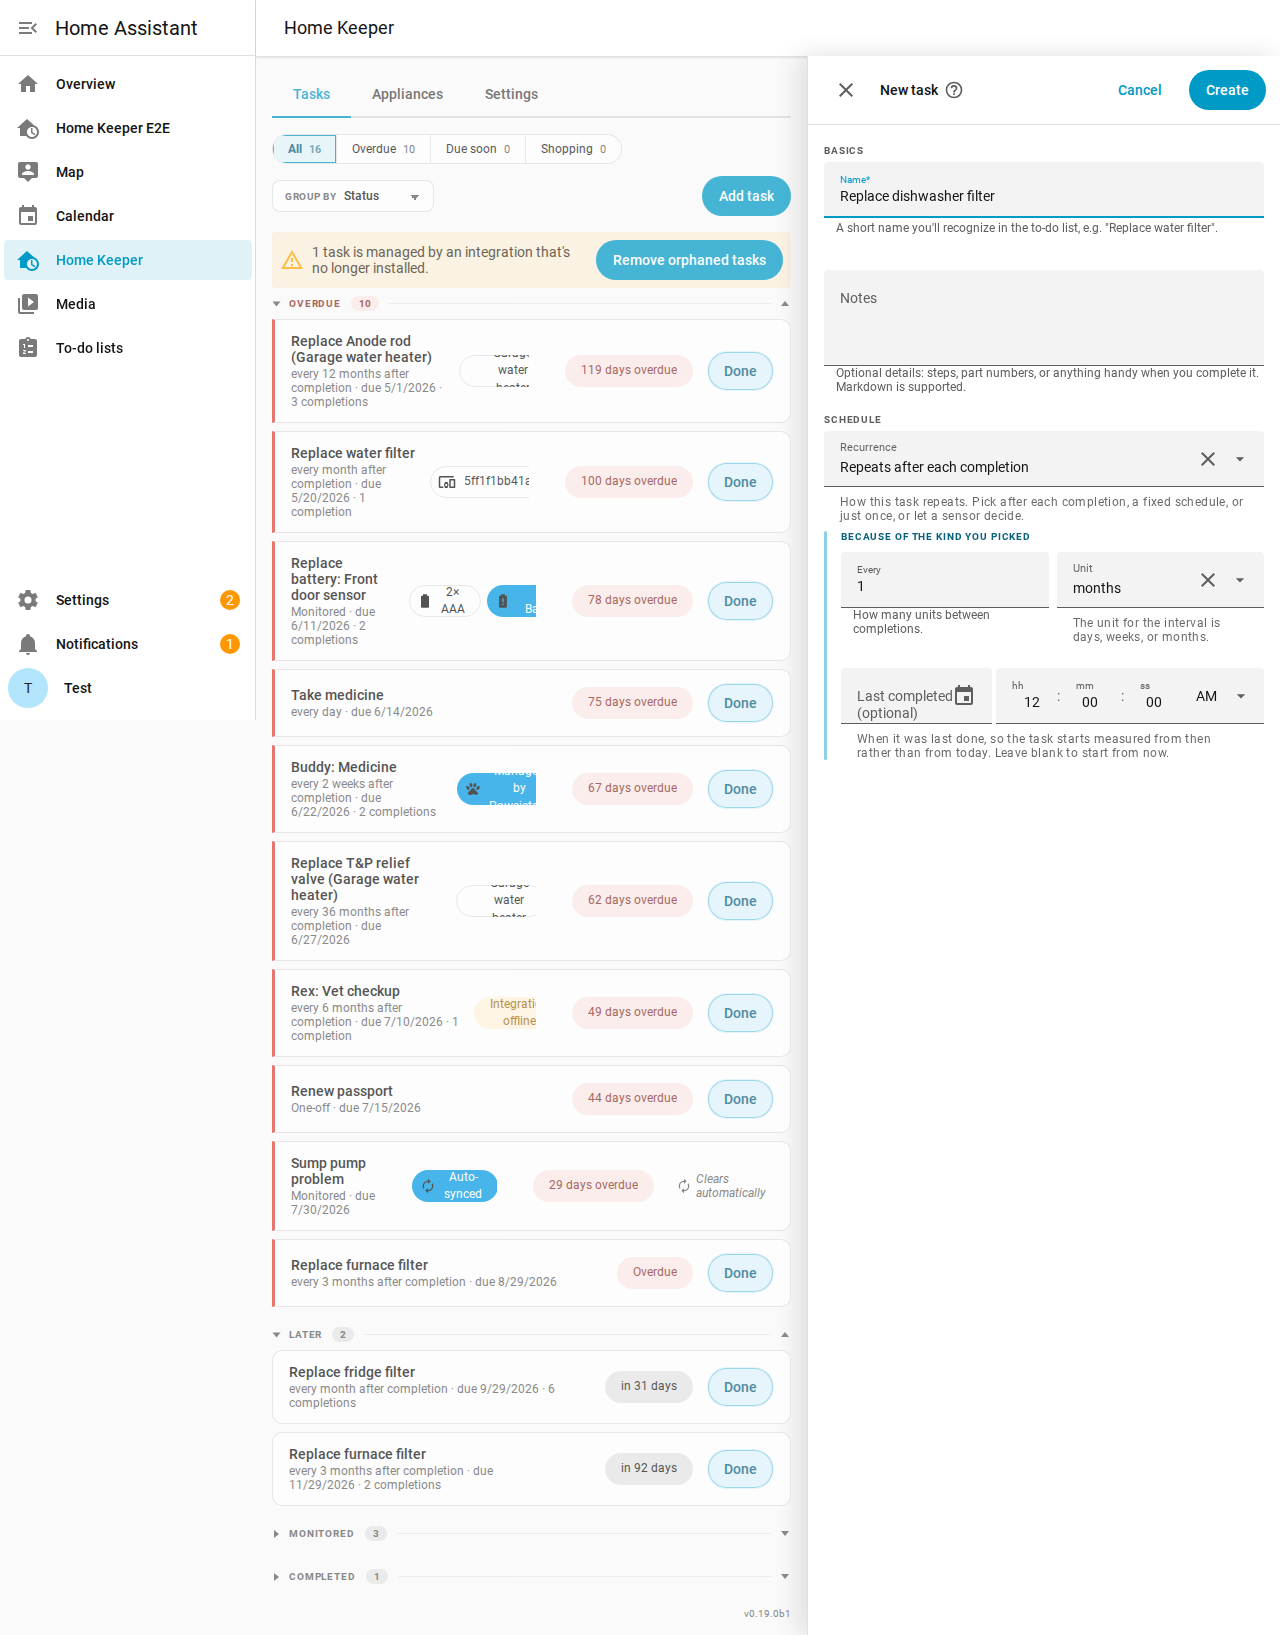
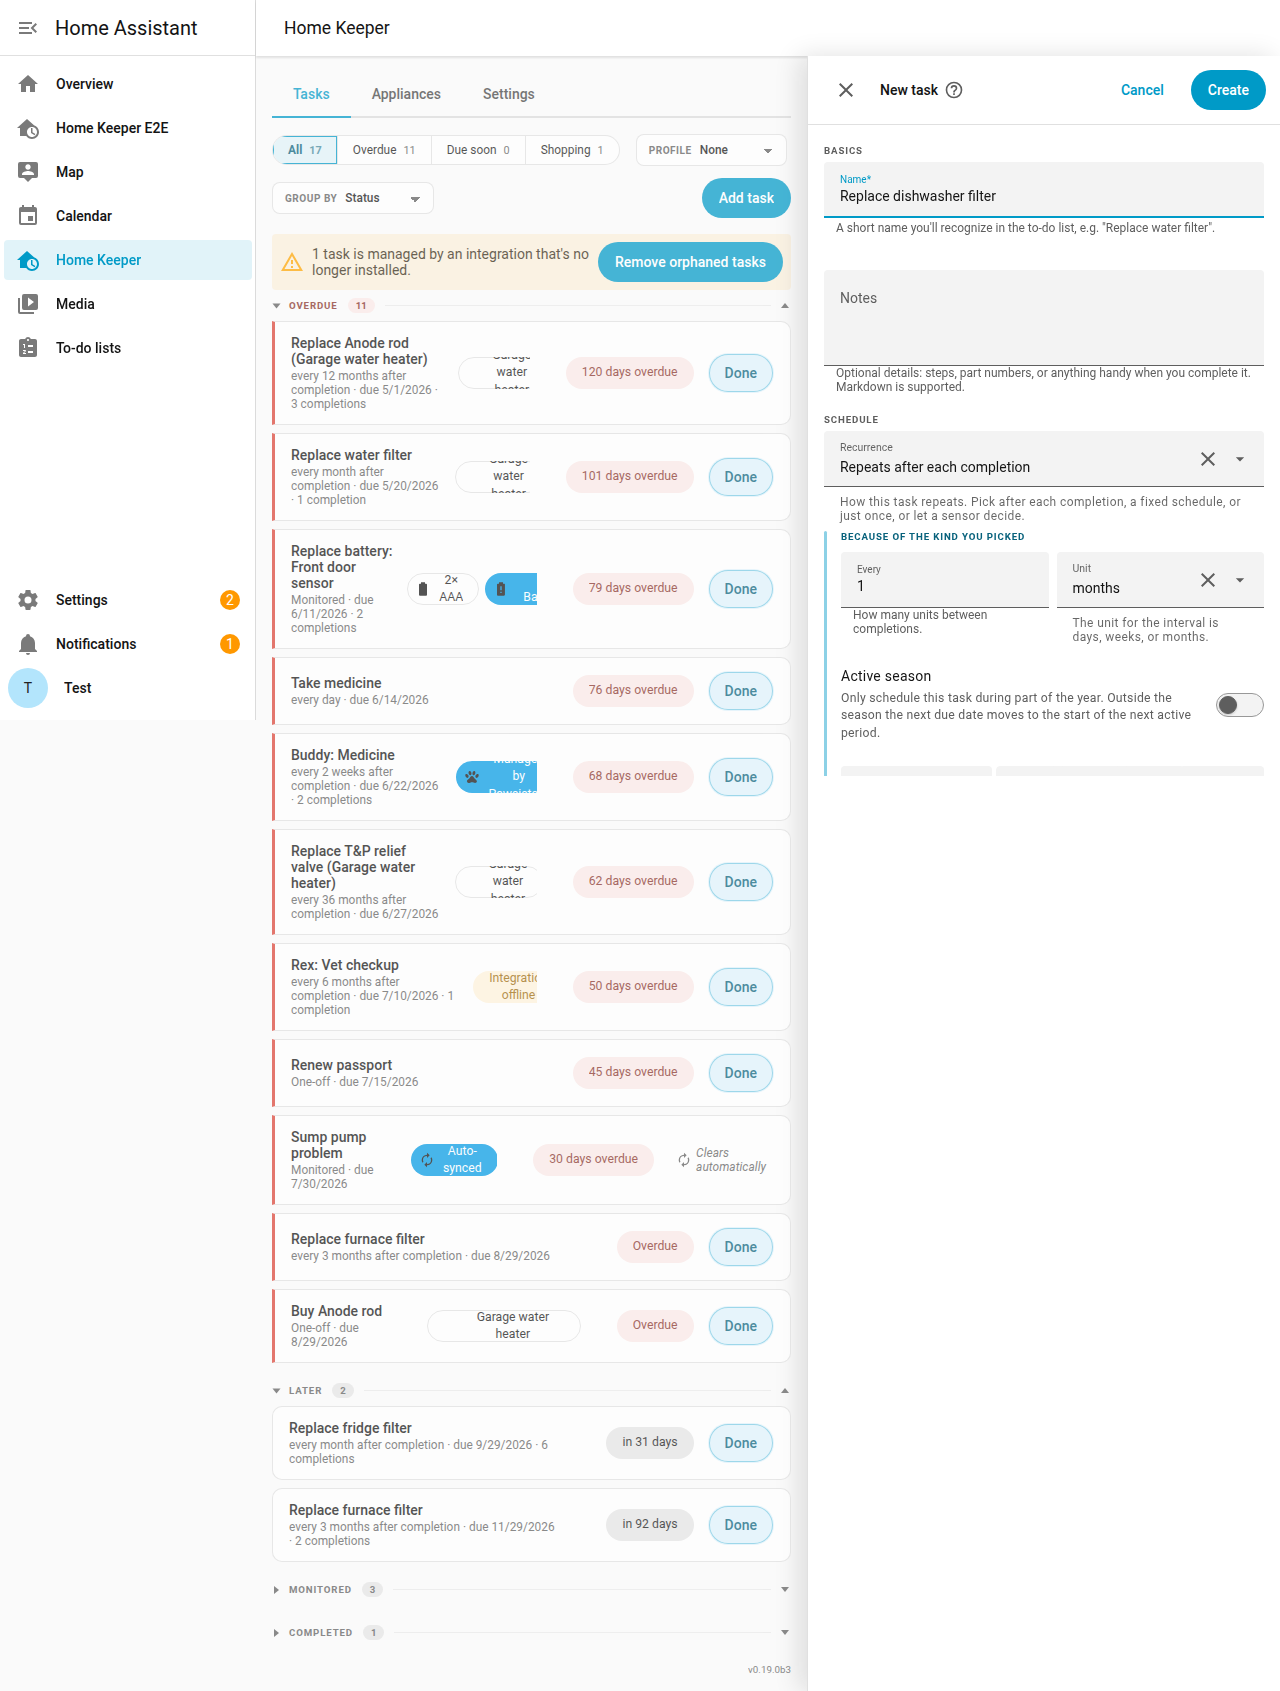
test(season): cover the window round trip in the browser, and reshoot the form
The reported bug was a round trip, not the season maths: a stored window that came
back uneditable. `tests/e2e/tests/season.spec.ts` opens a two-window task for
editing and asserts both windows render with their pickers, then adds and removes
one and checks what the save actually wrote. The capture harness and the
walkthrough tour step through the same surface, so the screenshot and the video
show the windows rather than a lone switch.

diff --git a/tests/e2e/screenshots.capture.ts b/tests/e2e/screenshots.capture.ts
@@ -487,8 +487,18 @@ test('capture Home Keeper panel + usage screenshots', async ({ page }) => {
   await expect(panel.locator('#hk-task-form-season-1')).toBeVisible();
   await panel.locator('#hk-season-add').click();
   await expect(panel.locator('#hk-task-form-season-2')).toBeVisible();
+  // The windows sit near the bottom of a drawer that scrolls inside a 100vh column,
+  // so scroll the first one to the top of the drawer: the shot then frames the season
+  // from its switch down to Add another season, which is what someone editing it sees.
+  await panel.locator('#hk-task-form-cadence').evaluate((node: Element) => {
+    node.scrollIntoView({ block: 'start' });
+    // Then a little further, so "Add another season" is in frame under the second
+    // window: the point of the shot is that a task can carry as many as it needs.
+    node.closest('.hk-drawer-sticky')?.scrollBy({ top: 150 });
+  });
+  await page.evaluate(() => document.scrollingElement?.scrollTo({ top: 0, left: 0 }));
   await page.waitForTimeout(400);
-  await shotWithDrawer(page, `${OUT}/3b-panel-create-season.png`);
+  await page.screenshot({ path: `${OUT}/3b-panel-create-season.png` });
 
   // Turn season off for the next shot.
   if (await seasonSwitch.evaluate((el: HTMLInputElement) => el.checked)) {

diff --git a/tests/e2e/tests/season.spec.ts b/tests/e2e/tests/season.spec.ts
@@ -1,5 +1,5 @@
 import { test, expect } from '@playwright/test';
-import { createTask, deleteTask, listTasks, openPanel, trackPanelErrors } from './helpers';
+import { createTask, deleteTask, listTasks, trackPanelErrors } from './helpers';
 
 /**
  * Active-season windows in a real browser.
@@ -90,7 +90,10 @@ test.describe('Home Keeper panel — active season', () => {
     expect((await listTasks()).find((t) => t.id === taskId)?.active_season).toHaveLength(2);
 
     // Remove the *first* window: the survivor shifts up rather than the last one
-    // being dropped, so what is saved is what the form was showing.
+    // being dropped, so what is saved is what the form was showing. Saving closes the
+    // drawer onto the list, so come back through the task's own address.
+    await page.goto(`/home-keeper/tasks/${taskId}`, { waitUntil: 'domcontentloaded' });
+    await expect(panel.locator('.d-edit')).toBeVisible();
     await panel.locator('.d-edit').click();
     await expect(panel.locator('#hk-task-form-season-2')).toBeVisible();
     await panel.locator('#hk-season-remove-1').click();

diff --git a/tests/e2e/walkthrough.capture.ts b/tests/e2e/walkthrough.capture.ts
@@ -253,6 +253,12 @@ async function desktopTour(page: Page, panel: Locator): Promise<void> {
     .first();
   await seasonSwitch.click();
   await expect(panel.locator('#hk-task-form-season-1')).toBeVisible();
+  await page.waitForTimeout(BEAT);
+  // The windows open below the fold of a drawer that scrolls its own content, so
+  // follow them down — the reveal is the point of this beat.
+  await panel
+    .locator('#hk-task-form-cadence')
+    .evaluate((node: Element) => node.closest('.hk-drawer-sticky')?.scrollBy({ top: 320 }));
   await page.waitForTimeout(BEAT * 2);
   await panel.locator('#hk-season-add').click();
   await expect(panel.locator('#hk-task-form-season-2')).toBeVisible();
